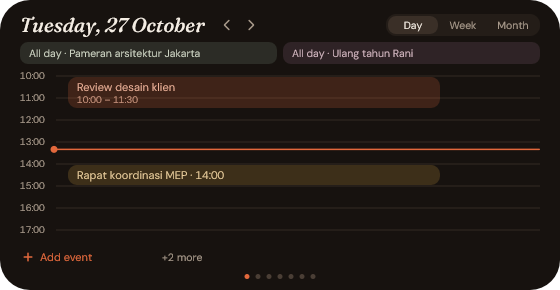
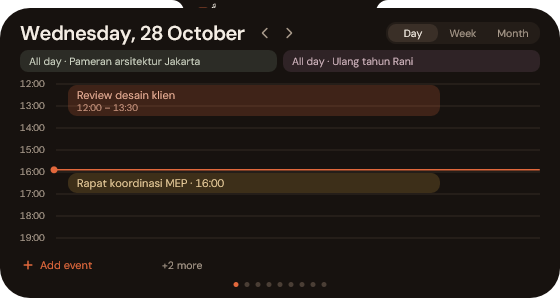
docs: v3.1.0 — README, screenshots, version, memory notes (Run 10)
README describes Vale, the new pages (Clipboard, System), the screenshot
preview, the CLI folder menu, panel pages and both Google login ways.
Screenshots regenerated from the demo modes. Version 3.1.0. Memory notes
record the verify-pass decisions; the handoff note says v3.1 is complete.

diff --git a/README.md b/README.md
@@ -2,7 +2,9 @@
 
 # Vale for Windows
 
-A macOS-style island for the top of your Windows 11 screen: notifications, calendar, pomodoro, reminders, notes, music, a command line and more, in a native Rust app (Win32 + Direct2D, no browser engine). Version 3 brings the **Studio** look: warm terracotta and espresso colours, its own fonts and icons, and a small cat that lives in the notch.
+A macOS-style island for the top of your Windows 11 screen: notifications, calendar, pomodoro, reminders, notes, music, a command line and more, in a native Rust app (Win32 + Direct2D, no browser engine), with the **Studio** look: warm terracotta and espresso colours, its own fonts and icons, and a small cat that lives in the notch.
+
+**Vale was called Dynamic Island** until version 3.1. Installing 3.1 over it replaces the old install, and Vale moves your data from `%APPDATA%\DynamicIsland` to `%APPDATA%\Vale` on its first start. Version 3.1 also adds a clipboard history, a screenshot preview, a System page with a cleaner, a CLI that follows Explorer, panel pages you can reorder or hide, and one-click Google sign-in.
 
 <p align="center">
   <img src="assets/screenshots/calendar.png" width="420" alt="Calendar page in month view: October 2026 with today circled in terracotta, and today's events listed on the right">
@@ -35,21 +37,24 @@ On first run, Windows asks for access to your notifications: allow it.
 ## Features
 
 - **Always-visible notch** at the top centre, with a clock when idle. It hides only for fullscreen apps; clicks outside its shape pass through.
-- **Hover to open the panel**, scroll the mouse wheel to change pages: **Calendar → Pomodoro → Reminders → Notes → Music → CLI → Shortcuts**.
+- **Hover to open the panel**, scroll the mouse wheel to change pages: **Calendar → Pomodoro → Reminders → Notes → Music → Clipboard → System → CLI → Shortcuts**. Settings → Appearance → *Panel pages* changes the order and hides pages you don't use (a hidden page still opens from its own button).
 - **Calendar:** Google Calendar with Month, Week and Day views. The day view is an hour timeline with a line at the current time. Add and edit events in the island's own editor; repeating events, events over several days and events on calendars you can only view open read-only. Events can't be deleted from the island. Works offline from the last sync.
 - **Pomodoro:** progress ring, start/pause/reset/skip, a small timer in the notch while it runs. Durations are set in Settings.
 - **Reminders:** once, daily, or weekly on one or more days of the week, set in the island's own reminder editor with time shortcuts (*In 30 min*, *In 1 hour*, *Tonight*, *Tomorrow morning*) and a summary of when it rings next. Reminders that came due while the island was off fire at startup, marked "Missed".
 - **Notes:** quick local notes, saved when the editor closes.
-- **Music:** cover, title, a progress bar and controls for whatever is playing (Spotify, browser, ...), an animated equalizer in the notch, and optional synced lyrics in the notch from [lrclib.net](https://lrclib.net).
+- **Music:** cover, title, a progress bar and controls for whatever is playing (Spotify, browser, ...), an animated equalizer in the notch, and optional synced lyrics in the notch from [lrclib.net](https://lrclib.net). The lyric notch grows with the line and scrolls a line that is still too long. A button only acts when it is both pressed and released on it, and not in the first half second after the panel opens under the pointer, so music is not paused by accident.
 - **Notifications:** every Windows toast shows in the island; click one to open its app. Turn on Windows *Do Not Disturb* to avoid seeing them twice (Settings → General → *Turn off Windows pop-ups* shows how). A low-battery notice comes at the threshold set in Settings.
 - **Claude Code:** "Claude finished" and "Claude needs you" notices through Claude Code hooks.
+- **Clipboard:** a history of what you copy (text, links, colours, files and images), searchable, with pins, in the panel. Password managers' copies are never kept. The history can be kept across restarts (encrypted with Windows DPAPI) or in memory only, and an optional hotkey (Ctrl+Alt+V or Win+Alt+V) opens it.
+- **Screenshot preview:** after PrtSc or Win+Shift+S the notch shows the shot with *Copy again*, *Keep* and *Delete* (to the Recycle Bin, and the clipboard is emptied). What an ignored preview does is set in Settings → Clipboard; the default keeps the file.
+- **System:** CPU, RAM and disk use on their own page, with one-time warnings when a drive runs low or RAM stays high.
 - **Shortcuts:** Screenshot, Clipboard, Emoji, Explorer, Calculator, Task Manager, Windows Settings, Lock screen.
 - **Clean up:** from the System page, measure and clean temp files and logs, browser and app caches, developer caches, Autodesk and Adobe caches, old installers in Downloads (to the Recycle Bin) and Windows Update leftovers (asks for admin through UAC). You tick what goes, and the button asks once more before anything is deleted. Open browsers and files in use are skipped and reported; the island reports the free space it measured afterwards.
 - **Clean up with Mole (experimental):** the cleaner's second mode, *Automatic · Mole*, hands the clean to [Mole for Windows](https://github.com/tw93/Mole/tree/windows) if you installed it yourself (see [Mole](#mole) below).
-- **CLI:** run one command at a time in PowerShell or cmd on the panel's CLI page. The island takes the keyboard only while you type: click the terminal to start (the panel stays open while you type). Esc hands the keyboard back to the app you were in; a click outside the island releases it to whatever you clicked. History suggestions (Tab, ↑), `cd`, `cls`, Stop / Ctrl+C and an enlarge button. A command keeps running while the panel is closed.
-- **Bata, the assistant:** a small robot beside the clock and on the island's own notices (reminders, pomodoro, Claude Code, battery, greeting). It has faces for idle, happy, focus, listening, singing, alert, thinking, asleep, low and waving; it blinks, falls asleep after a while without activity and wakes when you point at the island. Other apps' notifications keep their own badge, and the open panel shows no robot.
-- **Morning greeting:** once a day, before noon, Bata says good morning with the number of today's events and reminders, at startup, after a wake or when you unlock the PC.
-- **Studio look:** the Bata palette (terracotta, espresso, cream) with six accent colours, Espresso or Graphite island fill, light/dark windows; DM Sans and DM Mono built into the exe, with titles and the clocks in DM Sans Semibold; the island's own vector icons. Pill or Notch shape. Indonesian (default) or English.
+- **CLI:** run one command at a time in PowerShell or cmd on the panel's CLI page. The island takes the keyboard only while you type: click the terminal to start (the panel stays open while you type). Esc hands the keyboard back to the app you were in; a click outside the island releases it to whatever you clicked. History suggestions (Tab, ↑), `cd`, `cls`, Stop / Ctrl+C and an enlarge button. A command keeps running while the panel is closed. The CLI starts in the folder of the last active Explorer window (or in your last folder, Settings → General), and its folder chip opens a menu of open Explorer windows, favourites and recent folders.
+- **The cat, the assistant:** a small cat (round head, ears, eyes with lashes, a plum bow) beside the clock and on the island's own notices (reminders, pomodoro, Claude Code, battery, cleaner, greeting). It has faces for idle, happy, focus, listening, singing, alert, thinking, asleep, low and waving, and its ears go up when alert and droop when asleep or low; it blinks, falls asleep after a while without activity and wakes when you point at the island. Other apps' notifications keep their own badge, and the open panel shows no cat.
+- **Morning greeting:** once a day, before noon, the cat says good morning with the number of today's events and reminders, at startup, after a wake or when you unlock the PC.
+- **Studio look:** the Vale palette (terracotta, espresso, cream) with six accent colours, Espresso or Graphite island fill, light/dark windows; DM Sans and DM Mono built into the exe, with titles and the clocks in DM Sans Semibold; the island's own vector icons. Pill or Notch shape. Indonesian (default) or English.
 
 <p align="center">
   <img src="assets/screenshots/calendar-day.png" width="420" alt="Calendar day view: an hour timeline with two all-day events on top, a design review and a coordination meeting, and a terracotta line at the current time">
@@ -63,7 +68,17 @@ On first run, Windows asks for access to your notifications: allow it.
 
 <p align="center">
   <img src="assets/screenshots/notes.png" width="420" alt="Notes page: four note cards with a title, two lines of text and when each was last changed">
-  <img src="assets/screenshots/music.png" width="420" alt="Music page: a sunset cover, the track title in italic serif, a progress bar at 1:42 of 3:58, playback controls and a Lyrics button">
+  <img src="assets/screenshots/music.png" width="420" alt="Music page: a sunset cover, the track title, a progress bar at 1:42 of 3:58, playback controls and a Lyrics button">
+</p>
+
+<p align="center">
+  <img src="assets/screenshots/clipboard.png" width="420" alt="Clipboard page: a search field and cards for copied text, a link, a colour and a screenshot, one of them pinned">
+  <img src="assets/screenshots/system.png" width="420" alt="System page: CPU, RAM and disk use with a Clean up button">
+</p>
+
+<p align="center">
+  <img src="assets/screenshots/screenshot.png" width="420" alt="Screenshot preview in the notch: a thumbnail with its size and Copy again, Keep and Delete">
+  <img src="assets/screenshots/cleaner.png" width="420" alt="Cleaner, Choose yourself mode: categories with the size each frees and a Clean button">
 </p>
 
 <p align="center">
@@ -76,26 +91,27 @@ On first run, Windows asks for access to your notifications: allow it.
 </p>
 
 <p align="center">
-  <img src="assets/screenshots/robot.png" width="460" alt="Bata's faces: idle, happy, focus, listening, singing, alert, thinking, asleep, low and waving, then a blink and the sizes from 48 to 20 px">
+  <img src="assets/screenshots/robot.png" width="460" alt="The cat's faces: idle, happy, focus, listening, singing, alert, thinking, asleep, low and waving, then a blink and the sizes from 48 to 20 px">
   <br>
-  <img src="assets/screenshots/greeting.png" width="300" alt="Morning greeting notice: Bata waving beside Good morning, 3 events and 2 reminders today">
+  <img src="assets/screenshots/greeting.png" width="300" alt="Morning greeting notice: the cat waving beside Good morning, 3 events and 2 reminders today">
 </p>
 
 ## Settings
 
 Open **Settings…** from the tray icon.
 
-<p align="center"><img src="assets/screenshots/settings.png" width="560" alt="Settings window, Appearance section scrolled down: accent colour, island fill, window mode, clock when idle, then the assistant card with Assistant in notch, Animation Full / Saver / Off, Sleep after 10 min and Morning greeting"></p>
+<p align="center"><img src="assets/screenshots/settings.png" width="560" alt="Settings window, Appearance section scrolled down: window mode, clock when idle, the assistant card with Assistant in notch, Animation Full / Saver / Off, Sleep after 10 min and Morning greeting, then Panel pages with an order stepper and a switch per page"></p>
 
 | Section | What's in it |
 |---|---|
-| Appearance | A live preview of the island; island style (Pill / Notch), accent colour (Terracotta, Sage, Ochre, Clay, Olive, Plum), island fill (Espresso / Graphite), window mode (Follow Windows / Dark / Light), clock when idle. Then the assistant: assistant in notch (Bata on or off), animation (Full / Saver / Off), sleep after 1–60 minutes without activity, morning greeting |
-| General | Language (Indonesia / English), start with Windows, battery alert threshold, how to turn off Windows pop-ups, lyrics in notch, CLI shell (PowerShell / cmd), protect Cargo & Autodesk caches in Mole |
+| Appearance | A live preview of the island; island style (Pill / Notch), accent colour (Terracotta, Sage, Ochre, Clay, Olive, Plum), island fill (Espresso / Graphite), window mode (Follow Windows / Dark / Light), clock when idle. Then the assistant: assistant in notch (the cat on or off), animation (Full / Saver / Off), sleep after 1–60 minutes without activity, morning greeting. Then *Panel pages*: the order of the nine pages and which ones the wheel shows |
+| General | Language (Indonesia / English), start with Windows, battery alert threshold, how to turn off Windows pop-ups, lyrics in notch, CLI shell (PowerShell / cmd) and start folder (Explorer / last folder), disk and RAM warnings, protect Cargo & Autodesk caches in Mole |
+| Clipboard | History on or off, how many items, keep after restart, the optional hotkey, clear history; the screenshot preview and what an ignored preview does |
 | Pomodoro | Focus, break and long break length; sessions before a long break (locked while a pomodoro runs) |
-| Integrations | Google Calendar: status, client ID / secret, Save, Connect / Disconnect, setup guide. Claude Code: install or remove hooks |
+| Integrations | Google Calendar: status, *Sign in with Google* (or your own client ID / secret under *Advanced*), Disconnect, setup guide. Claude Code: install or remove hooks |
 | About | Version, source code, releases, data folder |
 
-**Animation:** *Full* blinks, lifts Bata when you point at it and bounces on alerts. *Saver* drops the blinking and motion but keeps the faces; Full also behaves like Saver while Windows Energy Saver is on. *Off* runs no robot timers at all: the faces still follow what happens, but Bata does not fall asleep. With the assistant off, the island looks and works as without Bata.
+**Animation:** *Full* blinks, lifts the cat when you point at it and bounces on alerts. *Saver* drops the blinking and motion but keeps the faces; Full also behaves like Saver while Windows Energy Saver is on. *Off* runs no assistant timers at all: the faces still follow what happens, but the cat does not fall asleep. With the assistant off, the island looks and works as without it.
 
 ## Mole
 
@@ -103,7 +119,7 @@ The cleaner's *Automatic · Mole* mode runs **Mole for Windows** by tw93, a sepa
 
 - **Preview first:** the mode always starts with `mo clean --dry-run`, which deletes nothing. Its lines are read into four groups (browser, app, developer caches, temp files and logs); a group the island cannot read says *see log* instead of guessing a number. Mole's own summary line is never used.
 - **Confirm:** *Run Mole* turns into *Sure? Delete for good* for 4 seconds; only a second click runs `mo clean`, and only with the options of the finished preview. Any other click, an option change or closing the panel disarms it. What Mole deletes is gone for good (no Recycle Bin).
-- **While it runs:** Mole's log shows in the panel (colours stripped, its internal tables left out). The panel may close; Bata thinks in the notch and a notice comes at the end: happy with the free space the island measured itself (before and after, per drive), or low with a *Log* button if Mole failed.
+- **While it runs:** Mole's log shows in the panel (colours stripped, its internal tables left out). The panel may close; the cat thinks in the notch and a notice comes at the end: happy with the free space the island measured itself (before and after, per drive), or low with a *Log* button if Mole failed.
 - **Options:** *+ System (admin)* (not ticked) runs `mo clean --system` through a UAC prompt in a separate PowerShell; the island itself never runs as admin. *+ Game media > 90 days* adds `--game-media`. *Protect folders…* opens `mo clean --whitelist`.
 - **Protected by default:** before Mole's first preview the island adds the Cargo caches (`.cargo\registry`, `.cargo\git`) and the Autodesk folders under AppData to Mole's whitelist (`%USERPROFILE%\.config\mole\whitelist.txt`), appending only what is missing and never changing your lines. Settings → General → *Protect Cargo & Autodesk caches in Mole* turns this off.
 - **Versions:** the island was tested with Mole 1.30.x; another version shows a warning and may still run.
@@ -114,14 +130,19 @@ The cleaner's *Automatic · Mole* mode runs **Mole for Windows** by tw93, a sepa
 
 ## Setup Google Calendar
 
-The Calendar page uses your own Google Cloud project (one-time setup):
+There are two ways to connect the Calendar page:
+
+- **Sign in with Google** (Settings → Integrations): one click, then pick your account in the browser. This uses Vale's own Google client, which is built into release builds; a build without it (for example one you build yourself) shows only the second way.
+- **Your own client ID** (Settings → Integrations → *Advanced: use your own Client ID*): your own Google Cloud project, set up once as below. An own client ID, when saved, is used instead of Vale's. Switching between the two asks you to sign in again.
+
+Setting up your own client:
 
 1. In [Google Cloud Console](https://console.cloud.google.com/), create a new project.
 2. **APIs & Services → Library** → **Google Calendar API** → **Enable**.
 3. **Google Auth Platform** (OAuth consent screen) → **Get started**: any app name, your email, Audience **External**.
 4. **Audience → Test users → Add users**: add the Gmail account whose calendar you want.
 5. **Clients → Create client** → type **Desktop app**. Copy the **Client ID** and **Client secret** right away (the secret may be shown only once).
-6. In the island: Settings → Integrations → paste both → **Save** → **Connect**.
+6. In the island: Settings → Integrations → *Advanced: use your own Client ID* → paste both → **Save** → **Connect**.
 7. In the browser, pick your account, continue past "Google hasn't verified this app", and **tick both permissions**.
 
 While the project's publishing status is **Testing**, Google expires the login after 7 days and the island asks you to reconnect. To avoid that, choose **Audience → Publish app** (*In production*); no verification is needed for personal use, and the next login lasts.
@@ -132,14 +153,18 @@ Everything lives in `%APPDATA%\Vale\`:
 
 | File | Contents |
 |---|---|
-| `config.json` | Settings, including the Google client ID / secret (plain text) |
+| `config.json` | Settings, including your own Google client ID / secret if you set one (plain text) |
 | `notes.json`, `reminders.json` | Notes and reminders |
 | `calendar-cache.json` | Last calendar data, for offline use |
 | `google-token.bin` | Google login, encrypted with Windows DPAPI (only your Windows account can read it) |
 | `cli-history.txt`, `cli-cwd.txt` | CLI history and folder |
+| `cli-favorites.txt`, `cli-recent.txt` | The CLI folder menu's favourites and recent folders |
+| `clipboard-history.bin` | The clipboard history, encrypted with Windows DPAPI; only when *Keep after restart* is on (thumbnails only, no full-size images) |
+| `media.log` | Only with `--media-log`: when the island sent a media command and when playback changed (app id and state, never titles), up to 1 MB |
 | `lyrics-cache\` | Lyrics already fetched |
 
 - Nothing is sent anywhere except Google Calendar (when connected) and lrclib.net (when lyrics are on: the artist, title and length of the playing track).
+- A copy that a password manager marks as private never enters the clipboard history.
 - Notes and reminders are local only; there is no sync and no telemetry.
 
 ## Build from source
@@ -161,8 +186,9 @@ The C runtime is linked statically (`.cargo/config.toml`), so the exe runs witho
 ## Troubleshooting
 
 - **No notifications in the island:** check Windows Settings → Privacy & security → Notifications, then run `& "$env:LOCALAPPDATA\Programs\Vale\vale.exe" --probe-notifications` to print what arrives for 60 seconds.
-- **"Add a Google client ID first":** paste the client ID and secret in Settings → Integrations and press **Save**.
-- **"Access blocked" / Error 403 from Google:** your account is not a test user (step 4), or the client is not a *Desktop app*.
+- **"Add a Google client ID first":** this build has no built-in Google client: open Settings → Integrations → *Advanced*, paste your client ID and secret and press **Save**.
+- **"Sign in to Google again":** you switched between *Sign in with Google* and your own client ID; connect once more.
+- **"Access blocked" / Error 403 from Google (own client):** your account is not a test user (step 4), or the client is not a *Desktop app*.
 - **"Google Calendar API isn't enabled":** enable it (step 2) in the same project as the client, wait a few minutes, connect again.
 - **"Google permissions incomplete":** connect again and tick both permissions.
 - **"config.json is invalid":** usually a missing or extra comma. The island moves the broken file to `config.json.bak` on its next save; copy your values back from there.

diff --git a/docs/memory/v3-1-handoff.md b/docs/memory/v3-1-handoff.md
@@ -7,21 +7,29 @@ date: 2026-10-28
 
 Written so the work can continue on another PC. Plan: `docs/superpowers/plans/2026-10-27-v3.1.md`. Run order (not by number): 11, 1, 2, 3, 4, 5, 6, 7, 8, 9, 12, 13, 14, then the verify pass, then 10.
 
-## Done and merged on `main` (built with `defer`, NOT yet reviewed or checked)
+## Status (2026-10-28): v3.1 is complete on `main`
 
-Run 11, 1, 2, 3, 4, 5, 6, 7 and 8 are on `main`; `cargo test --locked` gave 814 passed at the last merge (`c6c0555`).
+All runs are in: 11, 1 to 8 (first PC), then 9, 12, 13, 14 and 10 (second
+PC, made directly in the main session while the `build` workflow was paused,
+see AGENTS.md). The verify pass ran as four fresh reviewers over every run;
+every Critical and Important finding was fixed test-first (cleaner pruning,
+Temp root, Mole whitelist encoding and quoting, screenshot file matching,
+clipboard full-size images, CLI network folders and stale Explorer folder,
+media sessions without an id, the empty `Vale` folder, the old autostart
+value). Version 3.1.0; `cargo test --locked` 858 passed. Minor findings left
+for later are the `Final: minor (deferred)` lines of the session's ledger and
+are listed in the session report.
 
-## Left to do
+Left for the owner:
 
-| Step | What | Notes |
-|---|---|---|
-| Run 9 | Nine pages and the "Halaman panel" setting | Order: Calendar, Pomodoro, Reminders, Notes, Media, Clipboard, System, CLI, Shortcuts (the interim order already matches) |
-| Run 12 | Rename to Vale and data migration | Repo rename on GitHub is the owner's job, not the agent's |
-| Run 13 | Cat mascot and eared logo | Replaces the Bata robot; mascot name is still open |
-| Run 14 | One-click Google sign-in | Client ID/secret are filled in by the owner; empty means the button is hidden |
-| Verify pass | Review and check of the heavy runs | See the table below |
-| Run 10 | i18n, screenshots, README, version 3.1.0 | Last, so screenshots show the final result |
-| Push | `git push origin main` once, after Run 10 | Tag `v3.1.0` is the owner's job |
+- Tag `v3.1.0` (the release workflow builds and publishes) and deploy.
+- Google: create the project and Desktop client, publish the consent screen
+  (path B, then verification C with `site/`), add the repository secrets
+  `VALE_GOOGLE_CLIENT_ID` and `VALE_GOOGLE_CLIENT_SECRET`
+  ([[google-built-in-client]]).
+- Rename the GitHub repo (for example `vale-island`); repo URLs then follow.
+- Check whether Mole 1.30 honours `whitelist.txt` ([[mole-mode]]), and
+  whether `Spotify\Storage` in "Cache aplikasi" holds offline downloads.
 
 Still open for the owner, never decided by an agent: mascot name, repo licence (no `LICENSE` yet), website contact email, website domain, Google Client ID.
 
@@ -38,7 +46,7 @@ Still open for the owner, never decided by an agent: mascot name, repo licence (
 - Model names: `build.js` uses the aliases `opus` and `sonnet`. On the first PC these failed with "issue with the selected model" and the session script used the full ids `claude-opus-5-5` and `claude-sonnet-5-5` (constants `OPUS` and `SONNET` at the top of the file). Do the same if you see that error.
 - Check agents must not click media buttons or do anything that interrupts playback; use the debug demo modes (`--demo`, `--demo-editor`, `--demo-cli`, `--demo-robot`, `--settings`) and `scripts/capture-screenshots.ps1`.
 
-## Verify list: ranges merged without review or check
+## Verify list (reviewed 2026-10-28): the ranges the verify pass covered
 
 `base..head` on `main` (use `git log` for the commits). Heavy runs only.
 
@@ -54,7 +62,7 @@ Still open for the owner, never decided by an agent: mascot name, repo licence (
 | 7 | clipboard-history | 67cc45a | a705a0f | History, DPAPI, password-manager exclusion; do not touch the real clipboard |
 | 8 | screenshot-preview | a705a0f | c6c0555 | Match of file and clipboard image; no delete without the Hapus click; ignored preview keeps the file |
 
-Heavy runs 9, 12, 13 and 14 get added here as they land.
+Runs 9, 12, 13 and 14 were reviewed too (64758c5..c49c2e0).
 
 ## Owner checks that no agent could do
 

diff --git a/docs/memory/cleaner.md b/docs/memory/cleaner.md
@@ -72,6 +72,18 @@ the island's own. `NOTICE` carries the MIT text with its copyright line
 macOS code. Where the island is narrower than Mole (Teams databases, Zoom
 settings, NuGet packages, no system temp) the table says so.
 
+## Verify pass (2026-10-28)
+
+- **Prune only what the clean emptied** (`prune_emptied`): walk up from each
+  deleted file to its location folder. Pruning every empty folder under a
+  location deleted the user's own empty folders across the whole profile and
+  %APPDATA% (the profile-root and Roaming-root `*.log` locations), even an
+  empty git `refs`.
+- **Temp must be a real temp folder** (`safe_temp`): without TMP/TEMP,
+  GetTempPath returns the profile or Windows, and "older than 7 days" there
+  would take documents. A Temp root that is not named Temp/Tmp, holds the
+  profile, AppData, Downloads or Windows, or is Windows' own, is left out.
+
 Related: [[mole-mode]], [[system-page]], [[bata-robot-expressions]],
 [[bata-idle-power-budget]], [[studio-icons]], [[screenshot-capture-script]],
 [[studio-tabular-figures-word-gaps]]

diff --git a/docs/memory/screenshot-preview.md b/docs/memory/screenshot-preview.md
@@ -66,6 +66,16 @@ matching, PNG/JPEG headers, folder listing; Win32: `win`) and
   (`notch:screenshot`, `-saved`, `-deleted`) draws a fixed picture with
   fixed figures ([[clipboard-privacy]], [[screenshot-capture-script]]).
 
+## Verify pass (2026-10-28)
+
+- **Never another screenshot's file.** `ClipCandidate::from_ms`
+  (`claim_from`): when an image arrived shortly before, files before this
+  one's arrival belong to that one. `Shots::taken` (last 16) lists files
+  already matched; they are never matched again. Before this, a retake within
+  a few seconds could match the earlier file, and Hapus recycled it.
+- Simpan without a file (PrtSc with no auto-save) says "Belum ada file · tetap
+  di clipboard", not "Disimpan".
+
 Related: [[bata-robot-expressions]], [[system-page]]
 
 Listed in [[index]].

diff --git a/docs/memory/mole-mode.md b/docs/memory/mole-mode.md
@@ -88,3 +88,16 @@ never look for Mole; shots in [[screenshot-capture-script]]. The mode lives
 on the [[system-page]]'s cleaner.
 
 Listed in [[index]].
+
+## Verify pass (2026-10-28)
+
+- A whitelist saved as UTF-16LE (PowerShell 5.1 `Out-File`, Notepad
+  "Unicode") is read and extended as UTF-16LE; UTF-8 bytes appended to it were
+  garbage to Mole.
+- A whitelist that cannot be written says so in the preview log
+  (`MoleProtectFailed`) instead of failing silently.
+- `ps_quote` doubles U+2018..U+201B too: PowerShell ends a single-quoted
+  string at them, and the elevated command line is built from paths.
+- Owner check still open: whether Mole 1.30 honours `whitelist.txt` (its docs
+  describe it for later releases). The dry-run names groups, not paths, so the
+  island cannot check it.

diff --git a/docs/memory/cli-explorer-folder.md b/docs/memory/cli-explorer-folder.md
@@ -56,3 +56,13 @@ Demo scenes `cli-from-explorer` and `cli-folder-menu` use a fixed "now"
 ([[demo-data-time-of-day]]); shots in [[screenshot-capture-script]].
 
 Listed in [[index]].
+
+## Verify pass (2026-10-28)
+
+- No existence check of a network folder on the UI thread
+  (`cli_folders::exists_quick`): UNC paths and mapped network drives
+  (GetDriveTypeW, which asks the mount manager, not the share) count as there;
+  an unreachable share used to freeze the island for the SMB timeout.
+- A folder taken from Explorer gives way to cli-cwd.txt (`back_to_last`) when
+  the page opens with no Explorer window, or in "Folder terakhir" mode; the
+  "dari Explorer" chip goes with it.

diff --git a/docs/memory/clipboard-history.md b/docs/memory/clipboard-history.md
@@ -78,6 +78,13 @@ Run 7 of the v3.1 plan (Keputusan #5). Code in `src/clipboard/` (pure:
   `SystemLow`, `CleanDone`, `MoleDone` and `MoleFailed`; a newer "Disalin"
   replaces only an older "Disalin", never a cleaner or system notice.
 
+## Verify pass (2026-10-28)
+
+- The newest image always keeps its full-size original, even past
+  `FULL_BUDGET` (a 4K or 5K screenshot alone passes it); older ones share the
+  budget. A card with only its thumbnail left says so when copied ("pratinjau
+  kecil, aslinya tidak tersimpan").
+
 Related: [[clipboard-privacy]], [[settings-appearance-scroll]]
 
 Listed in [[index]].

diff --git a/docs/memory/vale-rename.md b/docs/memory/vale-rename.md
@@ -31,4 +31,9 @@ say Vale.
 - `scripts/make-fonts.ps1` keeps the `dynamic-island-subset` tag in the font
   names, since changing it changes the font files for no visible gain.
 
+- Verify pass: an empty `%APPDATA%\Vale` (any app may make one) is removed and
+  the data moves in; a non-empty one is still taken as Vale's. The old
+  `Run\DynamicIsland` value is deleted only when it starts
+  `dynamic-island.exe`.
+
 Related: [[v3-1-handoff]], [[v3-studio-overview]]

diff --git a/docs/memory/media-click-guards.md b/docs/memory/media-click-guards.md
@@ -14,3 +14,6 @@ Rules that keep the island from pausing music the user did not mean to pause:
 The progress timer for that same session is described in [[studio-media-progress-timer]]. When a pause has no island command behind it, see [[media-external-pause-causes]].
 
 Listed in [[index]].
+
+- A session without an AppUserModelId is still controlled: an empty target
+  means the current session when it has no id either (`pick_session`).
